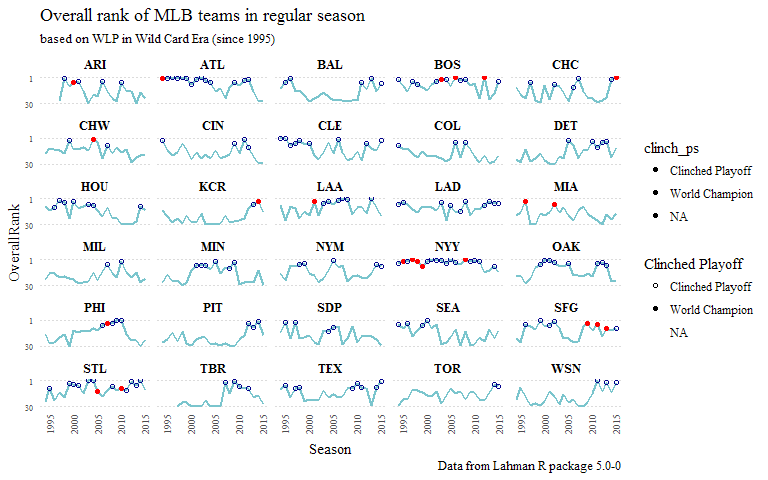
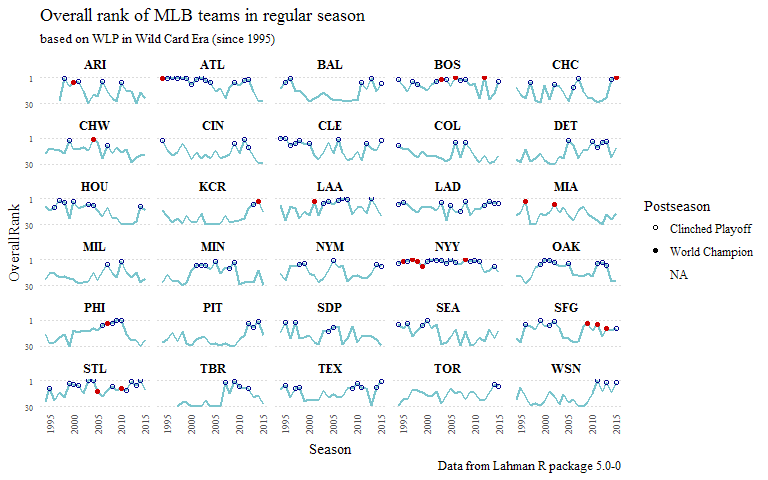
Test 2

diff --git a/_posts/2016-12-06-Overall-Rank-of-MLB-teams-in-regular-season.md b/_posts/2016-12-06-Overall-Rank-of-MLB-teams-in-regular-season.md
@@ -73,11 +73,11 @@ Teams_data$OverallRank <- as.integer(Teams_data$OverallRank)
 Overall_Linegraph <- ggplot(Teams_data, aes(x = Season, y = OverallRank)) +
   geom_line(color = "cadetblue3", size = .8) +
   geom_point(aes(color = clinch_ps, shape = clinch_ps, fill = clinch_ps)) +
-  guides(color = FALSE) +
+  guides(color = FALSE, fill = FALSE) +
   scale_shape_manual(c("Clinched Playoff", "World Champion", NA),  
-                     values = c(21, 19, 1)) +
+                     values = c(21, 19, 1), guide = guide_legend(title = "Postseason")) +
   scale_colour_manual(breaks = c("Clinched Playoff", "World Champion", NA),  
-                     values = c("darkblue", "red", "cadetblue3")) +
+                     values = c("darkblue", "red3", "cadetblue3")) +
   scale_fill_manual(breaks = c("Clinched Playoff", "World Champion", NA),  
                      values = c(NA, "orange", NA)) +
   scale_y_reverse(breaks = c(1,30)) +
@@ -99,3 +99,31 @@ Overall_Linegraph
 ```
 
 ![](2016-12-06-Overall-Rank-of-MLB-teams-in-regular-season_files/figure-markdown_github/ranking_sparklines-1.png)
+
+``` r
+ggsave(file="Overall_Linegraph.svg", plot=Overall_Linegraph, width=8, height=5)
+ggsave(file="Overall_Linegraph.png", plot=Overall_Linegraph, width=8, height=5)
+```
+
+``` r
+Overall_histograph <- ggplot(Teams_data) +
+  geom_histogram(mapping = aes(x = OverallRank), binwidth = 1, color = "cadetblue3") +
+  guides(color = FALSE) +
+  facet_wrap(~ FranchID, ncol = 5) +
+  labs(title = "Overall rank of MLB teams in regular season",
+       subtitle = "based on WLP in Wild Card Era (since 1995)",
+       caption = "Data from Lahman R package 5.0-0")+
+  theme_tufte() +
+  theme(axis.ticks = element_blank(),
+        panel.grid.major.y = element_line(colour = "gray86", linetype = "dotted", size = 0.1),
+        panel.grid.minor.y = element_blank(),
+        strip.text.x = element_text(size = 10, family = "serif", face = "bold", colour = "black", angle = 0),
+        axis.text.x=element_text(angle = 90, hjust = 0, vjust = 1, size = 7),
+        axis.text.y=element_text(angle = 0, hjust = 1, vjust = 0.5, size = 6)) +
+  scale_x_continuous(breaks = seq(1995, 2020, 5))
+  #scale_y_continuous(breaks = seq(0, 31, 1))
+
+Overall_histograph
+```
+
+![](2016-12-06-Overall-Rank-of-MLB-teams-in-regular-season_files/figure-markdown_github/ranking_histo-1.png)
